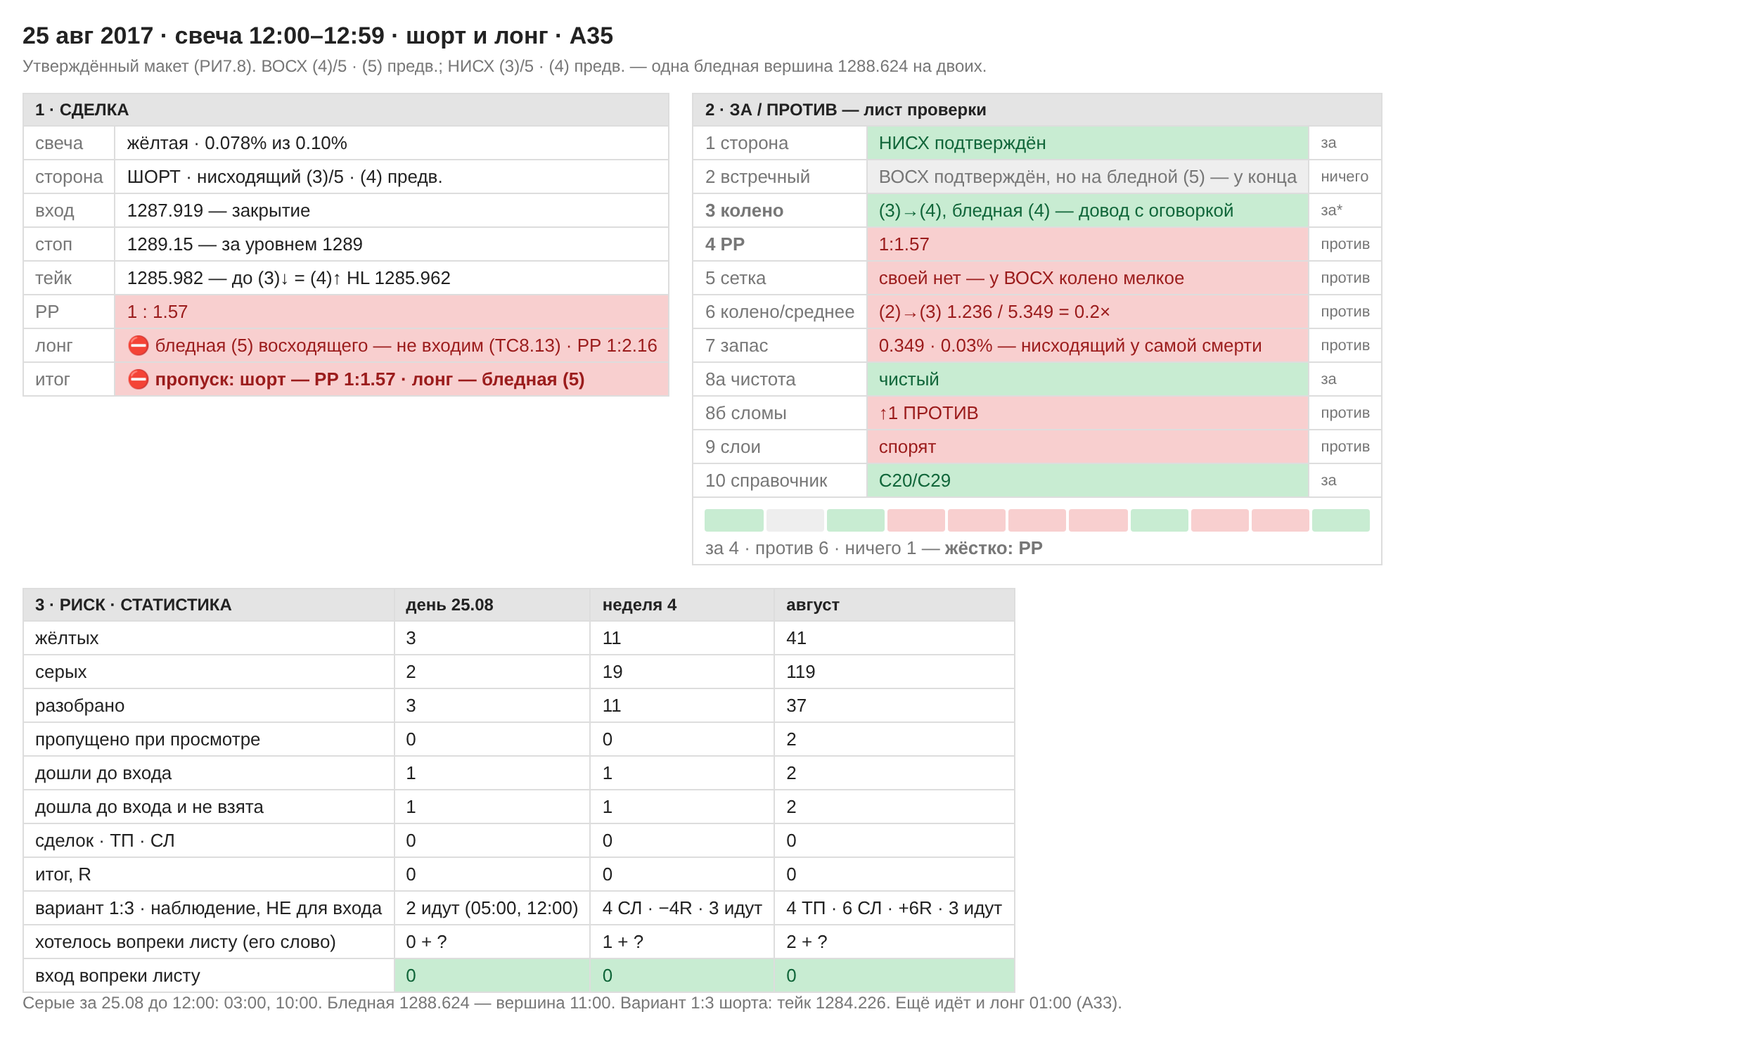
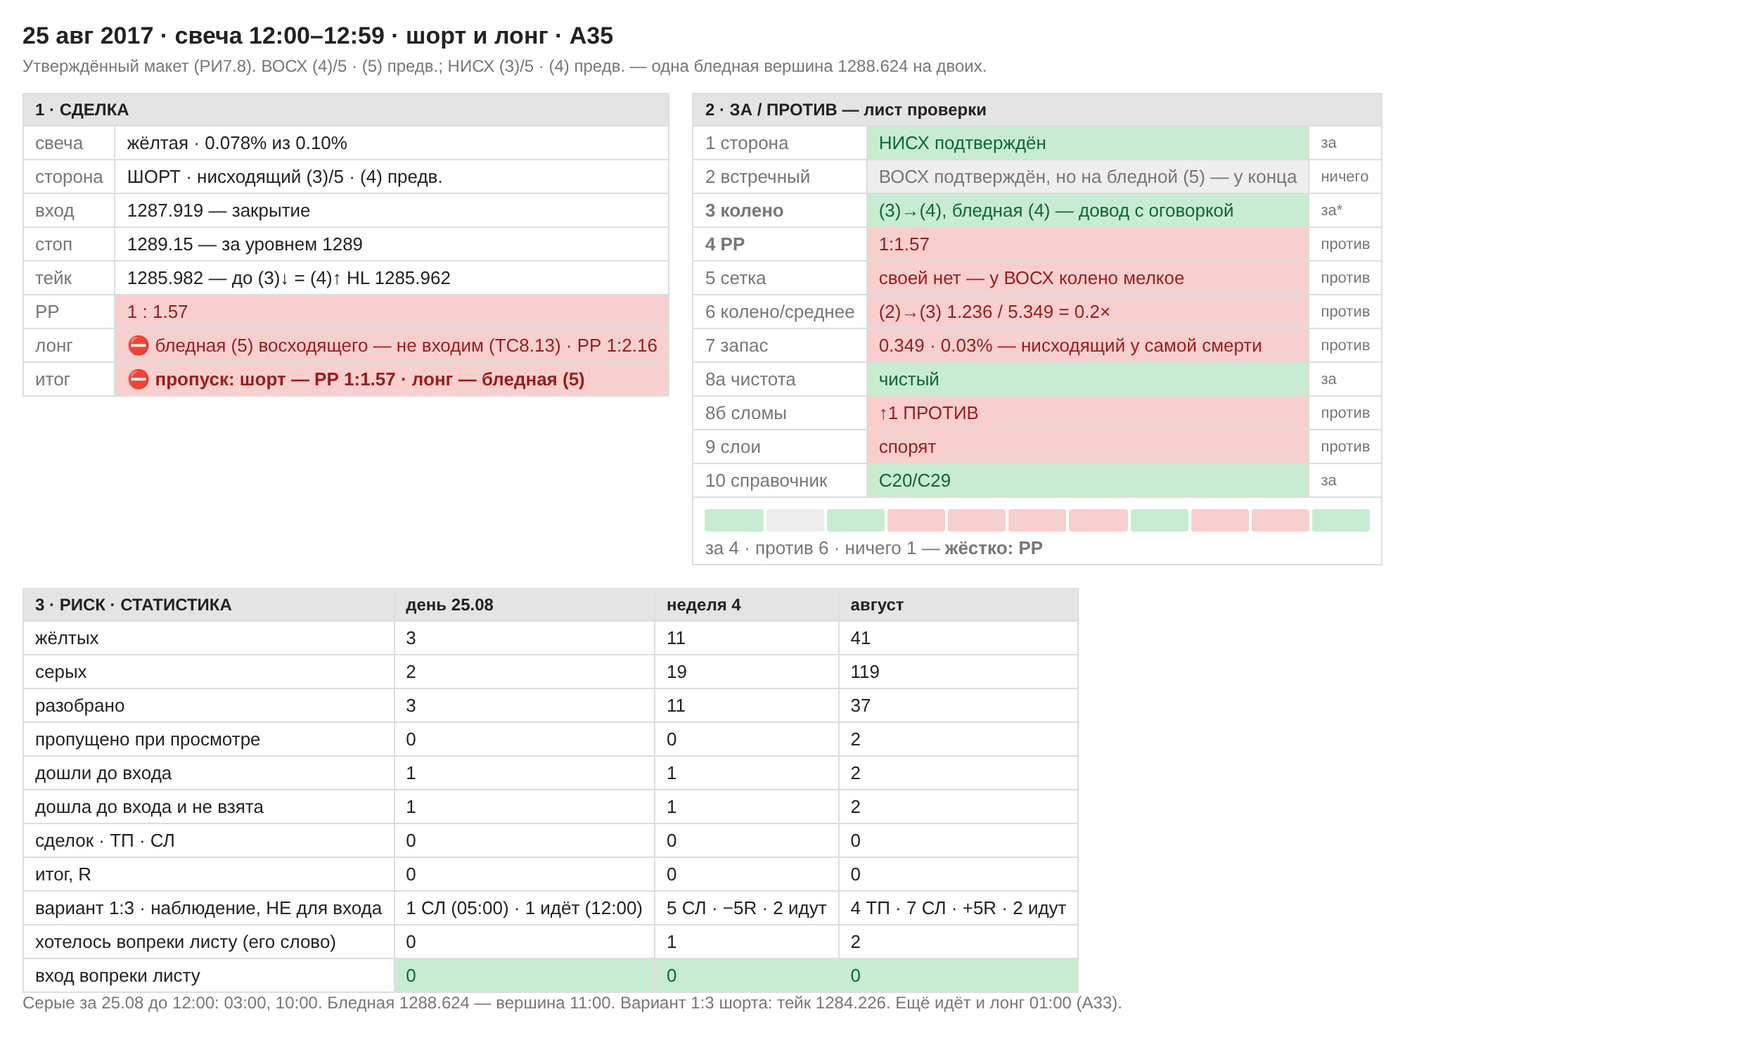
Исход А34: шорт 05:00 стоп в 08:00 — мой пропуск; список открытых; А35 «хотелось» 0; В36 11 случаев, +5R
Claude-Session: https://claude.ai/code/session_01TnuyYeu48W8E686G1zottP

diff --git a/research/out/maket/2017-08-25_1200.html b/research/out/maket/2017-08-25_1200.html
@@ -6,4 +6,4 @@ table{border-collapse:collapse;min-width:360px}td,th{border:1px solid var(--ln);
 th{background:var(--h);font-size:12px}.blk td:first-child{color:var(--mut);white-space:nowrap}
 .g{background:var(--g);color:var(--gt)}.r{background:var(--r);color:var(--rt)}.n{background:var(--n);color:var(--mut)}
 .hard{font-weight:bold}.tag{font-size:11px;color:var(--mut)}
-.bar{display:flex;gap:2px;margin:4px 0}.bar span{flex:1;height:16px;border-radius:2px}</style></head><body><h1>25 авг 2017 · свеча 12:00–12:59 · шорт и лонг · А35</h1><p class="sub">Утверждённый макет (РИ7.8). ВОСХ (4)/5 · (5) предв.; НИСХ (3)/5 · (4) предв. — одна бледная вершина 1288.624 на двоих.</p><div class="wrap"><table class="blk"><tr><th colspan="2">1 · СДЕЛКА</th></tr><tr><td>свеча</td><td class="">жёлтая · 0.078% из 0.10%</td></tr><tr><td>сторона</td><td class="">ШОРТ · нисходящий (3)/5 · (4) предв.</td></tr><tr><td>вход</td><td class="">1287.919 — закрытие</td></tr><tr><td>стоп</td><td class="">1289.15 — за уровнем 1289</td></tr><tr><td>тейк</td><td class="">1285.982 — до (3)↓ = (4)↑ HL 1285.962</td></tr><tr><td>РР</td><td class="r">1 : 1.57</td></tr><tr><td>лонг</td><td class="r">⛔ бледная (5) восходящего — не входим (ТС8.13) · РР 1:2.16</td></tr><tr><td>итог</td><td class="r hard">⛔ пропуск: шорт — РР 1:1.57 · лонг — бледная (5)</td></tr></table><table class="blk"><tr><th colspan="3">2 · ЗА / ПРОТИВ — лист проверки</th></tr><tr><td class="">1 сторона</td><td class="g">НИСХ подтверждён</td><td class="tag">за</td></tr><tr><td class="">2 встречный</td><td class="n">ВОСХ подтверждён, но на бледной (5) — у конца</td><td class="tag">ничего</td></tr><tr><td class="hard">3 колено</td><td class="g">(3)→(4), бледная (4) — довод с оговоркой</td><td class="tag">за*</td></tr><tr><td class="hard">4 РР</td><td class="r">1:1.57</td><td class="tag">против</td></tr><tr><td class="">5 сетка</td><td class="r">своей нет — у ВОСХ колено мелкое</td><td class="tag">против</td></tr><tr><td class="">6 колено/среднее</td><td class="r">(2)→(3) 1.236 / 5.349 = 0.2×</td><td class="tag">против</td></tr><tr><td class="">7 запас</td><td class="r">0.349 · 0.03% — нисходящий у самой смерти</td><td class="tag">против</td></tr><tr><td class="">8а чистота</td><td class="g">чистый</td><td class="tag">за</td></tr><tr><td class="">8б сломы</td><td class="r">↑1 ПРОТИВ</td><td class="tag">против</td></tr><tr><td class="">9 слои</td><td class="r">спорят</td><td class="tag">против</td></tr><tr><td class="">10 справочник</td><td class="g">С20/С29</td><td class="tag">за</td></tr><tr><td colspan="3"><div class="bar"><span class="g"></span><span class="n"></span><span class="g"></span><span class="r"></span><span class="r"></span><span class="r"></span><span class="r"></span><span class="g"></span><span class="r"></span><span class="r"></span><span class="g"></span></div>за 4 · против 6 · ничего 1 — <b>жёстко: РР</b></td></tr></table><table><tr><th>3 · РИСК · СТАТИСТИКА</th><th>день 25.08</th><th>неделя 4</th><th>август</th></tr><tr><td>жёлтых</td><td class="">3</td><td class="">11</td><td class="">41</td></tr><tr><td>серых</td><td class="">2</td><td class="">19</td><td class="">119</td></tr><tr><td>разобрано</td><td class="">3</td><td class="">11</td><td class="">37</td></tr><tr><td>пропущено при просмотре</td><td class="">0</td><td class="">0</td><td class="">2</td></tr><tr><td>дошли до входа</td><td class="">1</td><td class="">1</td><td class="">2</td></tr><tr><td>дошла до входа и не взята</td><td class="">1</td><td class="">1</td><td class="">2</td></tr><tr><td>сделок · ТП · СЛ</td><td class="">0</td><td class="">0</td><td class="">0</td></tr><tr><td>итог, R</td><td class="">0</td><td class="">0</td><td class="">0</td></tr><tr><td>вариант 1:3 · наблюдение, НЕ для входа</td><td class="">2 идут (05:00, 12:00)</td><td class="">4 СЛ · −4R · 3 идут</td><td class="">4 ТП · 6 СЛ · +6R · 3 идут</td></tr><tr><td>хотелось вопреки листу (его слово)</td><td class="">0 + ?</td><td class="">1 + ?</td><td class="">2 + ?</td></tr><tr><td>вход вопреки листу</td><td class="g">0</td><td class="g">0</td><td class="g">0</td></tr></table></div><p class="sub">Серые за 25.08 до 12:00: 03:00, 10:00. Бледная 1288.624 — вершина 11:00. Вариант 1:3 шорта: тейк 1284.226. Ещё идёт и лонг 01:00 (А33).</p></body></html>
+.bar{display:flex;gap:2px;margin:4px 0}.bar span{flex:1;height:16px;border-radius:2px}</style></head><body><h1>25 авг 2017 · свеча 12:00–12:59 · шорт и лонг · А35</h1><p class="sub">Утверждённый макет (РИ7.8). ВОСХ (4)/5 · (5) предв.; НИСХ (3)/5 · (4) предв. — одна бледная вершина 1288.624 на двоих.</p><div class="wrap"><table class="blk"><tr><th colspan="2">1 · СДЕЛКА</th></tr><tr><td>свеча</td><td class="">жёлтая · 0.078% из 0.10%</td></tr><tr><td>сторона</td><td class="">ШОРТ · нисходящий (3)/5 · (4) предв.</td></tr><tr><td>вход</td><td class="">1287.919 — закрытие</td></tr><tr><td>стоп</td><td class="">1289.15 — за уровнем 1289</td></tr><tr><td>тейк</td><td class="">1285.982 — до (3)↓ = (4)↑ HL 1285.962</td></tr><tr><td>РР</td><td class="r">1 : 1.57</td></tr><tr><td>лонг</td><td class="r">⛔ бледная (5) восходящего — не входим (ТС8.13) · РР 1:2.16</td></tr><tr><td>итог</td><td class="r hard">⛔ пропуск: шорт — РР 1:1.57 · лонг — бледная (5)</td></tr></table><table class="blk"><tr><th colspan="3">2 · ЗА / ПРОТИВ — лист проверки</th></tr><tr><td class="">1 сторона</td><td class="g">НИСХ подтверждён</td><td class="tag">за</td></tr><tr><td class="">2 встречный</td><td class="n">ВОСХ подтверждён, но на бледной (5) — у конца</td><td class="tag">ничего</td></tr><tr><td class="hard">3 колено</td><td class="g">(3)→(4), бледная (4) — довод с оговоркой</td><td class="tag">за*</td></tr><tr><td class="hard">4 РР</td><td class="r">1:1.57</td><td class="tag">против</td></tr><tr><td class="">5 сетка</td><td class="r">своей нет — у ВОСХ колено мелкое</td><td class="tag">против</td></tr><tr><td class="">6 колено/среднее</td><td class="r">(2)→(3) 1.236 / 5.349 = 0.2×</td><td class="tag">против</td></tr><tr><td class="">7 запас</td><td class="r">0.349 · 0.03% — нисходящий у самой смерти</td><td class="tag">против</td></tr><tr><td class="">8а чистота</td><td class="g">чистый</td><td class="tag">за</td></tr><tr><td class="">8б сломы</td><td class="r">↑1 ПРОТИВ</td><td class="tag">против</td></tr><tr><td class="">9 слои</td><td class="r">спорят</td><td class="tag">против</td></tr><tr><td class="">10 справочник</td><td class="g">С20/С29</td><td class="tag">за</td></tr><tr><td colspan="3"><div class="bar"><span class="g"></span><span class="n"></span><span class="g"></span><span class="r"></span><span class="r"></span><span class="r"></span><span class="r"></span><span class="g"></span><span class="r"></span><span class="r"></span><span class="g"></span></div>за 4 · против 6 · ничего 1 — <b>жёстко: РР</b></td></tr></table><table><tr><th>3 · РИСК · СТАТИСТИКА</th><th>день 25.08</th><th>неделя 4</th><th>август</th></tr><tr><td>жёлтых</td><td class="">3</td><td class="">11</td><td class="">41</td></tr><tr><td>серых</td><td class="">2</td><td class="">19</td><td class="">119</td></tr><tr><td>разобрано</td><td class="">3</td><td class="">11</td><td class="">37</td></tr><tr><td>пропущено при просмотре</td><td class="">0</td><td class="">0</td><td class="">2</td></tr><tr><td>дошли до входа</td><td class="">1</td><td class="">1</td><td class="">2</td></tr><tr><td>дошла до входа и не взята</td><td class="">1</td><td class="">1</td><td class="">2</td></tr><tr><td>сделок · ТП · СЛ</td><td class="">0</td><td class="">0</td><td class="">0</td></tr><tr><td>итог, R</td><td class="">0</td><td class="">0</td><td class="">0</td></tr><tr><td>вариант 1:3 · наблюдение, НЕ для входа</td><td class="">1 СЛ (05:00) · 1 идёт (12:00)</td><td class="">5 СЛ · −5R · 2 идут</td><td class="">4 ТП · 7 СЛ · +5R · 2 идут</td></tr><tr><td>хотелось вопреки листу (его слово)</td><td class="">0</td><td class="">1</td><td class="">2</td></tr><tr><td>вход вопреки листу</td><td class="g">0</td><td class="g">0</td><td class="g">0</td></tr></table></div><p class="sub">Серые за 25.08 до 12:00: 03:00, 10:00. Бледная 1288.624 — вершина 11:00. Вариант 1:3 шорта: тейк 1284.226. Ещё идёт и лонг 01:00 (А33).</p></body></html>

diff --git a/indicator/ТАБЛО-НА-СВЕЧЕ.md b/indicator/ТАБЛО-НА-СВЕЧЕ.md
@@ -46,7 +46,7 @@
 | 24 авг 19:00 | А31 | скрин | **ВОСХ** / возможен | (2) / (1) | ↑ чистый, ↓1 ПРОТИВ · ↓ чистый, ↓1 за | согласны (вниз) | 0.3% · ближе к концу НИСХ | 5.757 / 6.934 | ВОСХ `(0)→(1)`, табло 0.503 · ⛔ по Ф4.2 уже отменена тенью 17:00 (З81) | лонг 1:1.91 | пропуск: РР, сетка; шорт — А15 | лонг — **стоп** в 21:00 (и 1:3 тоже) |
 | 24 авг 23:00 | А32 | скрин | **ВОСХ** / возможен | (2) / (1) | ↑ чистый, ↓1 ПРОТИВ · ↓ чистый, ↓1 за | согласны (вниз) | 0.22% · ближе к концу ВОСХ | 5.757 / 6.934 | ВОСХ `(0)→(1)`, отменена — вышла за 0,79 | лонг 1:2.22 | пропуск: РР; шорт — А15 | — идёт |
 | 25 авг 01:00 | А33 | скрин | **ВОСХ** / возможен | (2) / (1) | ↑ чистый, ↓1 ПРОТИВ · ↓ чистый, ↓1 за | согласны (вниз) | 0.19% · ближе к концу ВОСХ | 5.757 / 6.934 | ВОСХ `(0)→(1)`, отменена — вышла за 0,79 | **лонг 1:4.12 ✅** | ⭐ **дошла до входа**, 6 : 4 · его решение — **«скорее пропуск»**: неуверенность, сетки нет, слом против, «не нравится, как проходит тренд» | — идёт |
-| 25 авг 05:00 | А34 | скрин | **ВОСХ** / **НИСХ** | (3) / (2) | ↑ чистый, ↓2 ПРОТИВ · ↓ чистый, ↓2 за | спорят | ↓ 0.16% (ближе к концу) | 5.368 / 6.303 (данные) | у ВОСХ колено мелкое (порог 1) | шорт 1:1.78 | пропуск: шорт — РР; лонг — коррекция | — идёт |
+| 25 авг 05:00 | А34 | скрин | **ВОСХ** / **НИСХ** | (3) / (2) | ↑ чистый, ↓2 ПРОТИВ · ↓ чистый, ↓2 за | спорят | ↓ 0.16% (ближе к концу) | 5.368 / 6.303 (данные) | у ВОСХ колено мелкое (порог 1) | шорт 1:1.78 | пропуск: шорт — РР; лонг — коррекция | шорт — **стоп** в 08:00 (и 1:3 тоже) |
 | 25 авг 12:00 | А35 | скрин | **ВОСХ** / **НИСХ** | (4)·**(5) предв.** / (3)·(4) предв. | ↑ чистый, ↑1 за · ↓ чистый, ↑1 ПРОТИВ | спорят | ↓ 0.03% (ближе к концу) | 1.236 / 5.349 (данные) | у ВОСХ колено мелкое | шорт 1:1.57 · лонг 1:2.16 | пропуск: шорт — РР; лонг — бледная (5), ТС8.13 | — идёт |
 
 ⚠ **8 авг 03:00 — табло на бар позади.** На закрытии свечи было уже
@@ -199,12 +199,12 @@ v3.44 (на проверке).
 | 24 авг 01:00 | лонг | 1290.751 | 1289.85 | 1291.578 | 1:0.92 | **1293.454** | 1.86 | ⛔ **не все**: сетка | ⛔ **стоп** 24 авг 03:00 (мин. 1288.268) |
 | 24 авг 19:00 | лонг | 1287.354 | 1285.85 | 1290.229 | 1:1.91 | **1291.866** | 1.62 | ⛔ **не все**: сетка, сломы, слои | ⛔ **стоп** в 21:00 (мин. 1285.420) |
 | 24 авг 23:00 | лонг | 1286.519 | 1284.85 | 1290.229 | 1:2.22 | **1291.526** | 1.28 | ⛔ **не все**: сетка, запас, сломы, слои | — идёт |
-| 25 авг 05:00 | шорт | 1286.342 | 1287.15 | 1284.901 | 1:1.78 | **1283.918** | 0.96 | ⛔ **не все**: встречный, сетка, запас, слои | — идёт |
+| 25 авг 05:00 | шорт | 1286.342 | 1287.15 | 1284.901 | 1:1.78 | **1283.918** | 0.96 | ⛔ **не все**: встречный, сетка, запас, слои | ⛔ **стоп** в 08:00 (макс. 1287.414) |
 | 25 авг 12:00 | шорт | 1287.919 | 1289.15 | 1285.982 | 1:1.57 | **1284.226** | 1.74 | ⛔ **не все**: сетка, колено, запас, сломы, слои | — идёт |
 
 Тейк до вершины (3) 1267.246 был бы взят тоже в 10:00 — у обеих свечей.
 
-**Итог десяти случаев В36:** 4 тейка (9 авг ×2 — спорно «все за»; 15 авг и 18 авг — «не все за») · 6 стопов (11 авг, 16 авг, 23 авг 08:00, 23 авг 22:00, 24 авг 01:00, 24 авг 19:00 — все «не все за») → **+6R**. Десять случаев — не вывод. «Не все за» отдельно: 8 случаев, 2 тейка · 6 стопов, **0R**. ~~Итог девяти: +7R.~~ ~~Итог семи: +9R.~~ ~~Итог шести: +10R.~~ ~~Итог пяти: +7R.~~ **Наблюдение, НЕ правило входа** (А22).
+**Итог одиннадцати случаев В36:** 4 тейка (9 авг ×2 — спорно «все за»; 15 авг и 18 авг — «не все за») · 7 стопов (11 авг, 16 авг, 23 авг 08:00, 23 авг 22:00, 24 авг 01:00, 24 авг 19:00, 25 авг 05:00 — все «не все за») → **+5R**. Одиннадцать случаев — не вывод. «Не все за» отдельно: 9 случаев, 2 тейка · 7 стопов, **−1R**. ~~Итог десяти: +6R.~~ ~~Итог девяти: +7R.~~ ~~Итог семи: +9R.~~ ~~Итог шести: +10R.~~ ~~Итог пяти: +7R.~~ **Наблюдение, НЕ правило входа** (А22).
 
 ⚠ **9 августа — пример ли это «все за»?** По его правилу колен на (3)/5
 лонг не берётся, то есть не всё за. Показываю расхождение, не выбираю:

diff --git a/indicator/КАК-ТОРГУЮ.md b/indicator/КАК-ТОРГУЮ.md
@@ -4265,3 +4265,25 @@ LH 1290.234 · рубится глубиной 1291.653 · запас 5.347, 0.4
 
 **Макет:** `research/out/maket/2017-08-25_1200.png`. ❓ «Хотелось вопреки
 листу» — спрошено.
+
+**Ответ на А35, 19.11.2026:** «нет, желания не было. тоже пропуск». Вердикт
+совпал. «Хотелось вопреки листу» — **0**.
+
+**Его же слово:** «есть сделки, которые уже закрылись, но ты не отметил —
+скинь, по каким сейчас открыты, как наблюдение проверим».
+
+⛔ **МОЙ ПРОПУСК.** Шорт 05:00 (А34) выбит стопом в **08:00** (максимум
+1287.414 выше стопа 1287.15) — и до вершины, и вариант 1:3. Он прислал скрин
+12:00, то есть уже прошёл 08:00, а я исход не проверил и написал «ещё
+идут». Записано теперь.
+
+**В36: 11 случаев, 4 тейка · 7 стопов, +5R; «не все за» — 9 случаев,
+2 тейка · 7 стопов, −1R.**
+
+**Открыты на закрытие 12:00 (по данным до 12:59 ни стоп, ни тейк не задеты):**
+
+| свеча | что | вход | стоп | тейк |
+|---|---|---|---|---|
+| 24 авг 23:00 (А32) | вариант 1:3, лонг | 1286.519 | 1284.85 | 1291.526 |
+| 25 авг 01:00 (А33) | лонг «дошла до входа», пропущен | 1285.900 | 1284.85 | 1290.229 |
+| 25 авг 12:00 (А35) | вариант 1:3, шорт | 1287.919 | 1289.15 | 1284.226 |
